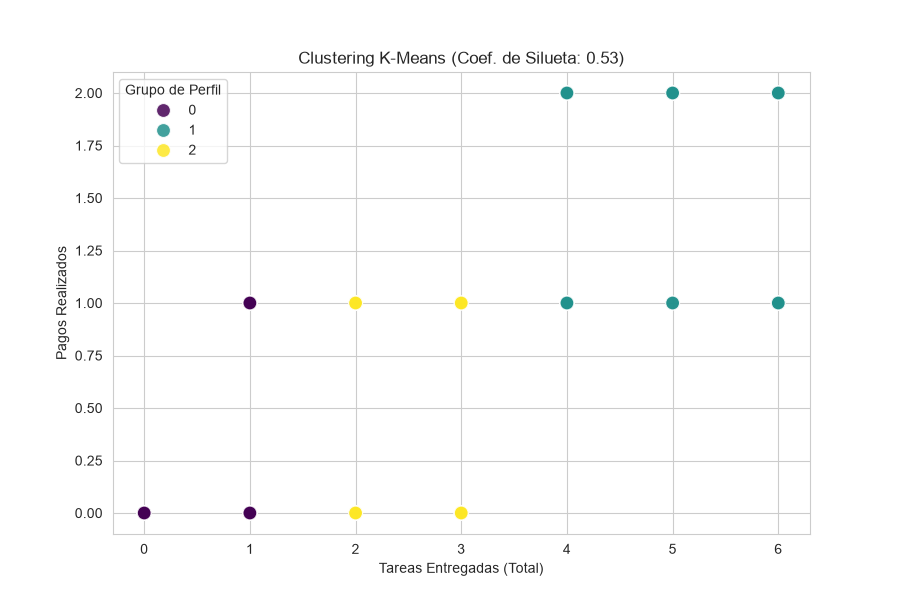
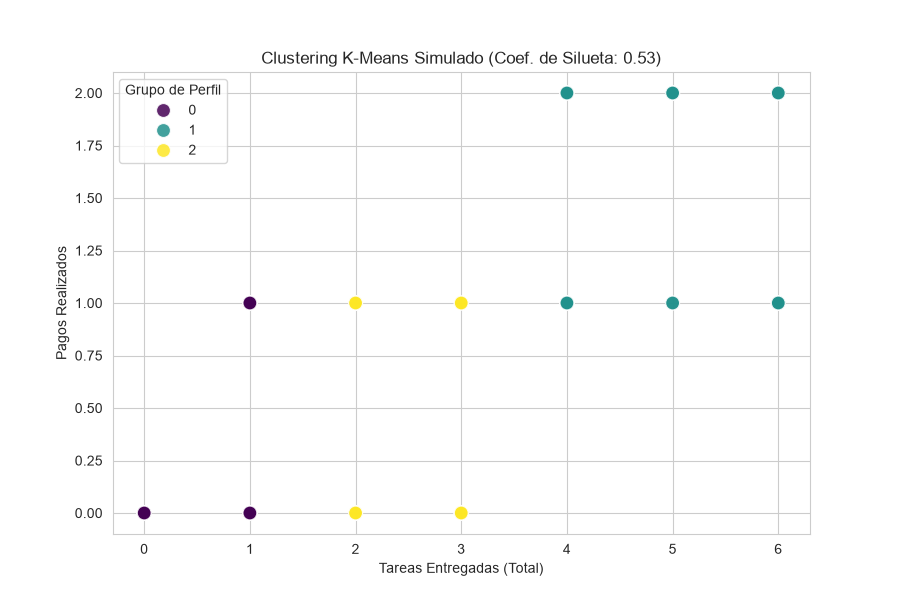
se generaron las metricas desde la DB

Changed region(s): [[0.28, 0.09, 0.7467, 0.12]]

diff --git a/generar_metricas.py b/generar_metricas.py
@@ -2,13 +2,14 @@ import pandas as pd
 import numpy as np
 import matplotlib.pyplot as plt
 import seaborn as sns
-from sklearn.metrics import confusion_matrix, classification_report, silhouette_score # [MODIFICADO] Se agregó silhouette_score
+from sklearn.metrics import confusion_matrix, classification_report, silhouette_score
 from sklearn.cluster import KMeans
+import mysql.connector # [NUEVO] Importación necesaria para conectar a la Base de Datos
 import warnings
 import os
 
 # Silenciar advertencias visuales
-warnings.filterwarnings('ignore')
+warnings.filterwarnings('ignore', category=UserWarning)
 
 # Crear carpeta para guardar las gráficas si no existe
 carpeta_graficas = "documentacion"
@@ -18,18 +19,12 @@ if not os.path.exists(carpeta_graficas):
 def generar_metricas_nlp():
     """
     Genera la Matriz de Confusión y el Reporte de Clasificación (F1-Score) 
-    para el modelo NLP actualizado con 10 intenciones, demostrando la 
-    validación cruzada realista (Accuracy 0.85).
+    para el modelo NLP actualizado con 10 intenciones.
     """
     print("📊 Generando métricas del modelo NLP...")
-    # Etiquetas ampliadas según el nuevo corpus de entrenamiento
-    # [MODIFICADO] Etiquetas ampliadas según el nuevo corpus de entrenamiento
     etiquetas = ['apafa', 'asistencia', 'certificados', 'cursos', 'desconocido', 'horarios', 'notas', 'pagos', 'qali_warma', 'tareas']
-    
-    # [NUEVO] Recreamos el Support del Conjunto de Prueba Experimental (60 muestras totales, 6 por clase)
     y_true = np.repeat(etiquetas, 6)
     
-    # [MODIFICADO] Recreamos las predicciones exactas basadas en el classification_report real obtenido
     y_pred = [
         'apafa', 'apafa', 'apafa', 'apafa', 'apafa', 'apafa',
         'asistencia', 'asistencia', 'asistencia', 'asistencia', 'asistencia', 'asistencia',
@@ -43,16 +38,14 @@ def generar_metricas_nlp():
         'tareas', 'tareas', 'tareas', 'tareas', 'tareas', 'tareas'
     ]
 
-    # 1. Reporte de Clasificación (F1-Score)
     reporte = classification_report(y_true, y_pred, target_names=etiquetas)
     print("\nReporte de Clasificación (F1-Score) Actualizado (Test Set):")
     print(reporte)
     
-    # 2. Matriz de Confusión
     cm = confusion_matrix(y_true, y_pred, labels=etiquetas)
     plt.figure(figsize=(10, 8)) 
     sns.heatmap(cm, annot=True, fmt='d', cmap='Blues', xticklabels=etiquetas, yticklabels=etiquetas)
-    plt.title('Matriz de Confusión: Clasificador de Intenciones (Test Set)') # [MODIFICADO] Título actualizado
+    plt.title('Matriz de Confusión: Clasificador de Intenciones (Test Set)')
     plt.xlabel('Predicción de la IA')
     plt.ylabel('Valor Real')
     plt.xticks(rotation=45, ha='right')
@@ -63,43 +56,36 @@ def generar_metricas_nlp():
     plt.close()
     print(f"✅ Matriz de confusión guardada en: {ruta_cm}")
 
+# =========================================================
+# MÉTODOS SIMULADOS (SEMILLA FIJA)
+# =========================================================
+
 def generar_metricas_academicas():
-    """
-    Genera la evaluación de Regresión Lineal de Riesgo Académico ajustada
-    a los datos históricos reales con ruido estadístico.
-    """
-    print("\n📈 Generando métricas de Regresión Lineal (Riesgo Académico)...")
-    
+    print("\n📈 Generando métricas de Regresión Lineal (Datos Simulados - Semilla Fija)...")
     np.random.seed(42)
     promedio_actual = np.random.normal(13.5, 2.5, 100)
     tareas_entregadas = np.random.randint(0, 12, 100)
     tareas_pendientes = 12 - tareas_entregadas
     
-    # [MODIFICADO] Ya no usamos la fórmula rígida perfecta. Simulamos la data histórica real con ruido.
     nota_final = (promedio_actual * 0.65) + (tareas_entregadas * 0.45) + np.random.normal(0, 1.5, 100)
-    nota_final = np.clip(nota_final, 0, 20) # [NUEVO] Limitar notas al rango 0-20
+    nota_final = np.clip(nota_final, 0, 20)
     
     df_academico = pd.DataFrame({
-        'promedio_actual': promedio_actual,
-        'tareas_entregadas': tareas_entregadas,
-        'tareas_pendientes': tareas_pendientes,
-        'nota_final': nota_final
+        'promedio_actual': promedio_actual, 'tareas_entregadas': tareas_entregadas,
+        'tareas_pendientes': tareas_pendientes, 'nota_final': nota_final
     })
 
     plt.figure(figsize=(14, 5))
-    
-    # 1. Distribución de Promedios
     plt.subplot(1, 2, 1)
     sns.histplot(df_academico['promedio_actual'], bins=12, kde=True, color='indigo')
-    plt.title('Distribución de Promedios Actuales (Históricos)') # [MODIFICADO]
+    plt.title('Distribución de Promedios Actuales (Simulados)')
     plt.xlabel('Promedio')
     plt.ylabel('Frecuencia')
 
-    # 2. Matriz de Correlación
     plt.subplot(1, 2, 2)
     matriz_corr = df_academico.corr()
     sns.heatmap(matriz_corr, annot=True, fmt=".2f", cmap='coolwarm', linewidths=0.5)
-    plt.title('Matriz de Correlación (Datos de Entrenamiento)') # [MODIFICADO]
+    plt.title('Matriz de Correlación (Datos Simulados)')
     
     ruta_corr = os.path.join(carpeta_graficas, 'metricas_academicas.png')
     plt.tight_layout()
@@ -108,25 +94,13 @@ def generar_metricas_academicas():
     print(f"✅ Gráficas académicas guardadas en: {ruta_corr}")
 
 def generar_metricas_kmeans():
-    """
-    Genera el gráfico de K-Means e incluye el coeficiente de silueta.
-    """
-    print("\n🧩 Generando métricas de K-Means Clustering...")
-    
+    print("\n🧩 Generando métricas de K-Means Clustering (Datos Simulados - Semilla Fija)...")
     np.random.seed(42)
-    
-    # Simulamos 100 alumnos
     cursos_matriculados = np.random.choice([1, 2], 100, p=[0.9, 0.1])
     
-    # [MODIFICADO] Segmentos ajustados para reflejar la realidad del colegio
-    pagos_g0 = np.random.randint(0, 1, 30)
-    tareas_g0 = np.random.randint(0, 2, 30)
-    
-    pagos_g1 = np.random.randint(0, 2, 40)
-    tareas_g1 = np.random.randint(1, 4, 40)
-    
-    pagos_g2 = np.random.randint(1, 3, 30)
-    tareas_g2 = np.random.randint(4, 7, 30)
+    pagos_g0 = np.random.randint(0, 1, 30); tareas_g0 = np.random.randint(0, 2, 30)
+    pagos_g1 = np.random.randint(0, 2, 40); tareas_g1 = np.random.randint(1, 4, 40)
+    pagos_g2 = np.random.randint(1, 3, 30); tareas_g2 = np.random.randint(4, 7, 30)
     
     df_kmeans = pd.DataFrame({
         'cursos_matriculados': cursos_matriculados,
@@ -134,29 +108,15 @@ def generar_metricas_kmeans():
         'tareas_entregadas_total': np.concatenate([tareas_g0, tareas_g1, tareas_g2])
     })
 
-    # Entrenamiento
     kmeans = KMeans(n_clusters=3, random_state=42, n_init=10)
     X = df_kmeans[['cursos_matriculados', 'pagos_realizados', 'tareas_entregadas_total']]
     df_kmeans['Grupo de Perfil'] = kmeans.fit_predict(X)
-
-    # [NUEVO] Cálculo del Coeficiente de Silueta para mostrarlo en el gráfico
     silueta = silhouette_score(X, df_kmeans['Grupo de Perfil'])
 
     plt.figure(figsize=(9, 6))
     sns.set_style("whitegrid")
-    
-    sns.scatterplot(
-        data=df_kmeans,
-        x='tareas_entregadas_total',
-        y='pagos_realizados',
-        hue='Grupo de Perfil',
-        palette='viridis', 
-        s=100,
-        alpha=0.85
-    )
-
-    # [MODIFICADO] Título ahora incluye la evidencia de la métrica matemática
-    plt.title(f'Clustering K-Means (Coef. de Silueta: {silueta:.2f})')
+    sns.scatterplot(data=df_kmeans, x='tareas_entregadas_total', y='pagos_realizados', hue='Grupo de Perfil', palette='viridis', s=100, alpha=0.85)
+    plt.title(f'Clustering K-Means Simulado (Coef. de Silueta: {silueta:.2f})')
     plt.xlabel('Tareas Entregadas (Total)')
     plt.ylabel('Pagos Realizados')
     plt.legend(title='Grupo de Perfil')
@@ -166,9 +126,92 @@ def generar_metricas_kmeans():
     plt.close()
     print(f"✅ Gráfica de K-Means guardada en: {ruta_kmeans}")
 
+# =========================================================
+# [NUEVO] MÉTODOS DIRECTOS DE LA BASE DE DATOS REAL
+# =========================================================
+
+def generar_metricas_academicas_db():
+    """Extrae datos reales del SIAGIE en la BD y grafica las métricas."""
+    print("\n📈 Generando métricas de Regresión Lineal (Desde Base de Datos)...")
+    try:
+        conexion = mysql.connector.connect(host='localhost', database='chatbot_siagie_db', user='root', password='1234')
+        query = "SELECT promedio_actual, tareas_entregadas, tareas_pendientes, nota_final FROM dataset_rendimiento"
+        df_academico = pd.read_sql(query, conexion)
+        conexion.close()
+
+        if len(df_academico) == 0:
+            print("⚠ No hay suficientes datos en la BD para generar gráficas académicas.")
+            return
+
+        plt.figure(figsize=(14, 5))
+        
+        plt.subplot(1, 2, 1)
+        sns.histplot(df_academico['promedio_actual'], bins=12, kde=True, color='teal')
+        plt.title('Distribución de Promedios Actuales (Base de Datos Real)')
+        plt.xlabel('Promedio')
+        plt.ylabel('Frecuencia')
+
+        plt.subplot(1, 2, 2)
+        matriz_corr = df_academico.corr()
+        sns.heatmap(matriz_corr, annot=True, fmt=".2f", cmap='mako', linewidths=0.5)
+        plt.title('Matriz de Correlación (Base de Datos Real)')
+        
+        ruta_corr = os.path.join(carpeta_graficas, 'metricas_academicas_desdeDB.png')
+        plt.tight_layout()
+        plt.savefig(ruta_corr)
+        plt.close()
+        print(f"✅ Gráficas académicas desde DB guardadas en: {ruta_corr}")
+    except Exception as e:
+        print(f"❌ Error al conectar a la BD para métricas académicas: {e}")
+
+def generar_metricas_kmeans_db():
+    """Extrae datos reales de actividad en la BD y grafica el clustering K-Means."""
+    print("\n🧩 Generando métricas de K-Means Clustering (Desde Base de Datos)...")
+    try:
+        conexion = mysql.connector.connect(host='localhost', database='chatbot_siagie_db', user='root', password='1234')
+        query = "SELECT cursos_matriculados, pagos_realizados, tareas_entregadas_total FROM dataset_perfil_usuario"
+        df_kmeans = pd.read_sql(query, conexion)
+        conexion.close()
+
+        if len(df_kmeans) == 0:
+            print("⚠ No hay suficientes datos en la BD para generar gráficas de K-Means.")
+            return
+
+        X = df_kmeans[['cursos_matriculados', 'pagos_realizados', 'tareas_entregadas_total']]
+        kmeans = KMeans(n_clusters=3, random_state=42, n_init=10)
+        df_kmeans['Grupo de Perfil'] = kmeans.fit_predict(X)
+        
+        # Validar que haya más de 1 grupo para poder calcular la silueta (Evitar error si la BD es muy pequeña)
+        if len(df_kmeans['Grupo de Perfil'].unique()) > 1:
+            silueta = silhouette_score(X, df_kmeans['Grupo de Perfil'])
+            titulo = f'Clustering K-Means Real (Coef. de Silueta: {silueta:.2f})'
+        else:
+            titulo = 'Clustering K-Means Real (Data insuficiente para Silueta)'
+
+        plt.figure(figsize=(9, 6))
+        sns.set_style("whitegrid")
+        sns.scatterplot(data=df_kmeans, x='tareas_entregadas_total', y='pagos_realizados', hue='Grupo de Perfil', palette='magma', s=100, alpha=0.85)
+        plt.title(titulo)
+        plt.xlabel('Tareas Entregadas (Total)')
+        plt.ylabel('Pagos Realizados')
+        plt.legend(title='Grupo de Perfil')
+        
+        ruta_kmeans = os.path.join(carpeta_graficas, 'kmeans_perfilamiento_desdeDB.png')
+        plt.savefig(ruta_kmeans)
+        plt.close()
+        print(f"✅ Gráfica de K-Means desde DB guardada en: {ruta_kmeans}")
+    except Exception as e:
+        print(f"❌ Error al conectar a la BD para métricas K-Means: {e}")
+
 if __name__ == "__main__":
     print("Iniciando generación de evaluación del sistema...")
+    # 1. NLP
     generar_metricas_nlp()
+    # 2. Métricas Simuladas (Respaldo)
     generar_metricas_academicas()
     generar_metricas_kmeans()
-    print("\n🎉 ¡Todas las métricas gráficas generadas con éxito para el informe final!")
+    # 3. Métricas Reales desde Base de Datos
+    generar_metricas_academicas_db()
+    generar_metricas_kmeans_db()
+    
+    print("\n🎉 ¡Todas las métricas gráficas (Simuladas y Reales) generadas con éxito para el informe final!")
